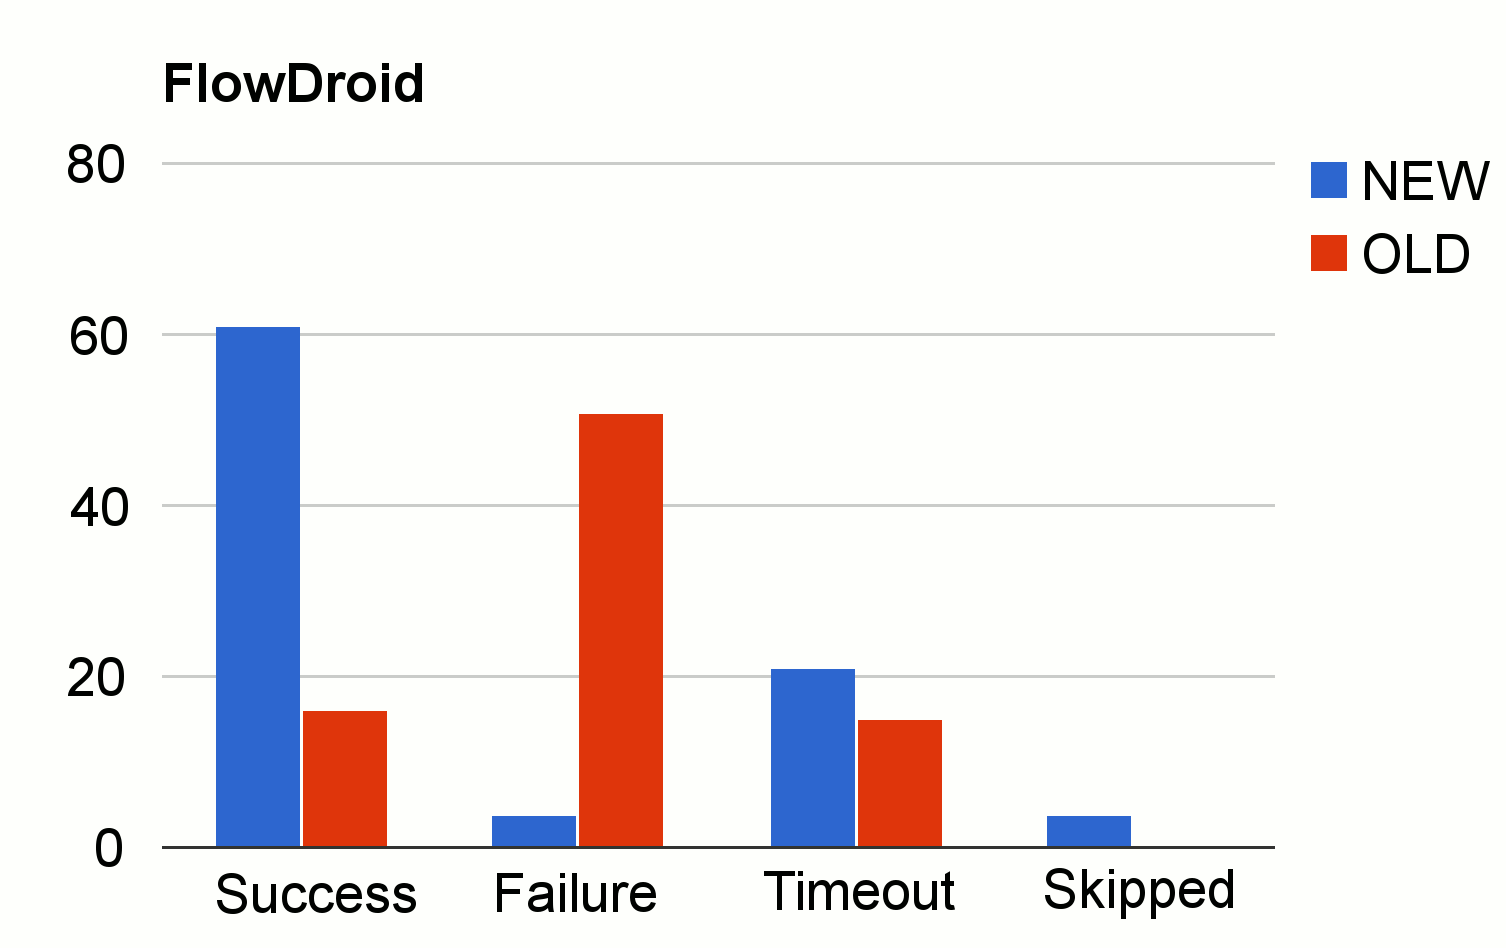
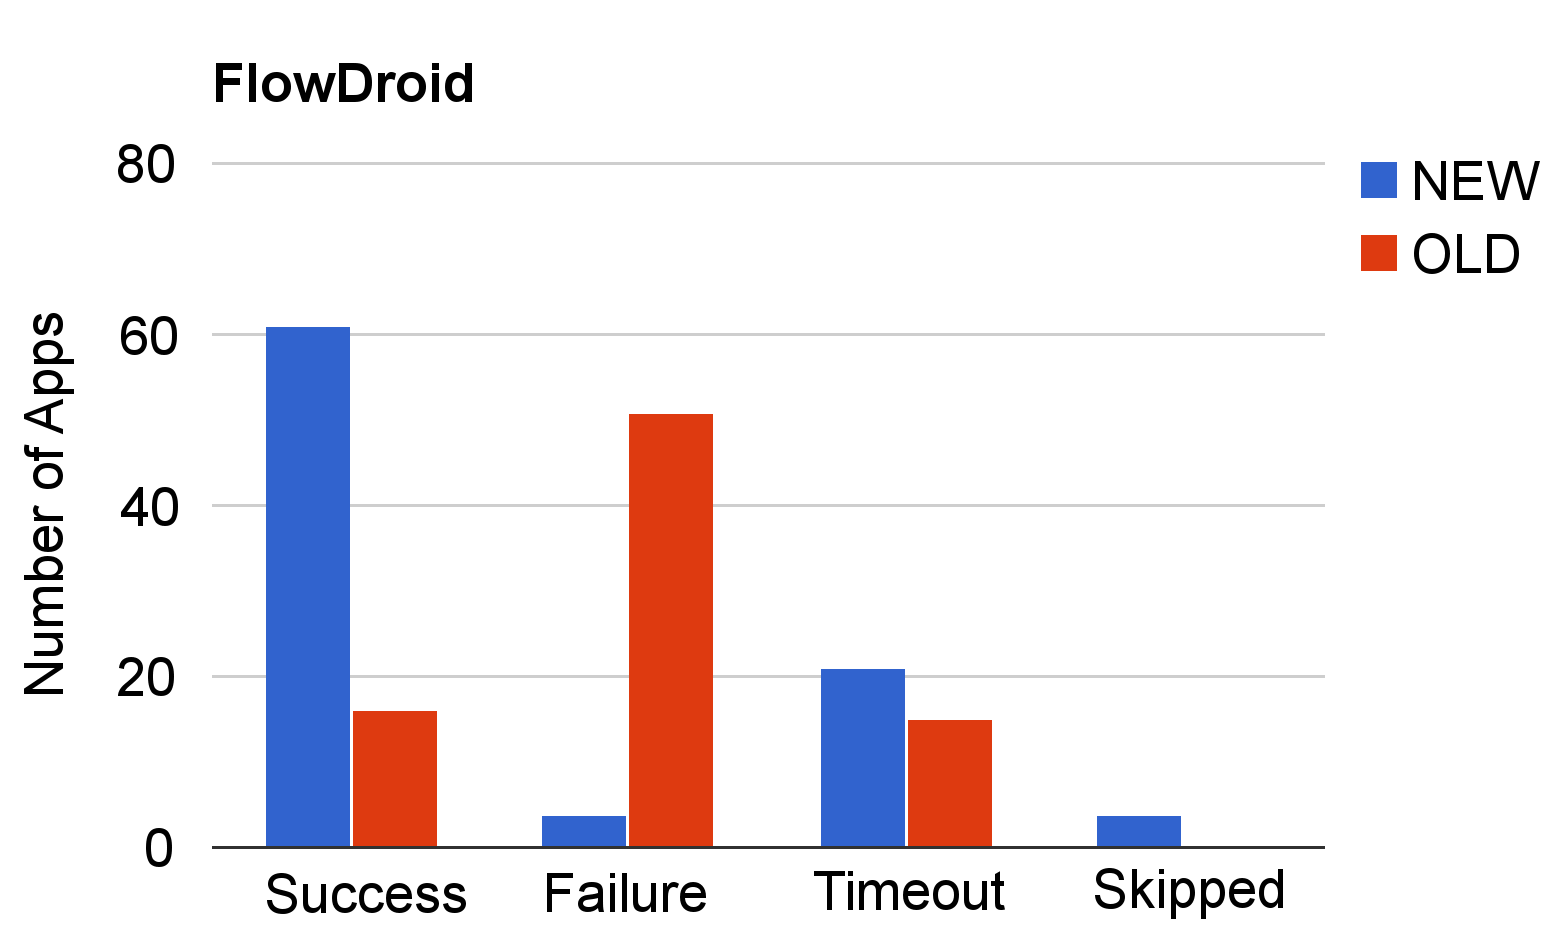
Added label for y-axis in Figure 6.1.

diff --git a/content/main.tex b/content/main.tex
@@ -28,7 +28,7 @@ Consider the case where the user installs an application for recording audio not
 
 As this example demonstrates, the Android permission system alone is insufficient for reasoning about scenarios where information flow between applications circumvents intended permission limitiations. \emph{DidFail}~\cite{didfail} is a tool for detecting such flows. Given a set up of Android APKs, DidFail uses static analysis to detect cases where sensitive information may be leaked from one application to another. While DidFail is a useful tool, it currently falls short in several scenarios. In its previous release, DidFail only tracked flows between Activities via intents. Other types of dataflows, such as those through static fields or between an Activity and a BroadcastReceiver, were previously missed. Through our work, we were able to expand DidFail's capabilities to work with more applications and handle more types of flows (with a few bumps along the way, and some still left for future work). In Sections III-VI, we detail the four features of DidFail we focused on improving.
 
-The DidFail analyzer (source code and binaries), previous DidFail versions, and papers about DidFail are available at: http://www.cert.org/secure-coding/tools/didfail.cfm  The version of DidFail and the test apps described in this report are also directly available at: \TODO{Get URL for direct access and put here, and also populate code, install instructions, and use instructions.}
+The DidFail analyzer (source code and binaries), previous DidFail versions, and papers about DidFail are available at: \url{http://www.cert.org/secure-coding/tools/didfail.cfm}.  The version of DidFail and the test apps described in this report are also directly available at: \TODO{Get URL for direct access and put here, and also populate code, install instructions, and use instructions.}
 
 \chapter{DidFail}
 
@@ -280,7 +280,7 @@ These additional flows from the Cartesian product calculation are added to the s
 
 Our analysis appeared to work correctly. While our modifications to support flows through static fields worked quite well in most cases, there are still some issues with our solution. With two taint passes instead of one, our required runtime can be as much as double the runtime of the original analysis. 
 
-More critically, the runtime of FlowDroid also scales with the number of sources, which means that adding a new source for every static field read could also ruin performance depending on how frequently static fields are used. In order to evaluate how important this issue is, we tested 100 APKs that, prior to adding this new feature, were successfully analyzed within the allocated time and memory (using virtual machines with 61 GB and FlowDroid analysis memory allowed to take up to 32 GB) (see Section~\ref{sec:infrastructure}). Unfortunately, the majority (66 out of 100) now timed out or ran out of heap space. It turns out that most applications use static fields quite frequently, particularly when invoking libraries such as Google Ads. For many of these applications, an additional taint analysis for every static field read was prohibitively expensive. In the future, we will increase virtual machine memory size, to see if that enables successful static field taint analysis of more apps. Virtual machines with 244~GB of memory are available\footnote{http://aws.amazon.com/ec2/pricing/}, which also have 32 virtual cores. Future work will also develop strategies to reduce the number of reads which get traced through the program. 
+More critically, the runtime of FlowDroid also scales with the number of sources, which means that adding a new source for every static field read could also ruin performance depending on how frequently static fields are used. In order to evaluate how important this issue is, we tested 100 APKs that, prior to adding this new feature, were successfully analyzed within the allocated time and memory (using virtual machines with 61 GB and FlowDroid analysis memory allowed to take up to 32 GB) (see Section~\ref{sec:infrastructure}). Unfortunately, the majority (66 out of 100) now timed out or ran out of heap space. It turns out that most applications use static fields quite frequently, particularly when invoking libraries such as Google Ads. For many of these applications, an additional taint analysis for every static field read was prohibitively expensive. In the future, we will increase virtual machine memory size, to see if that enables successful static field taint analysis of more apps. Virtual machines with 244~GB of memory are available\footnote{\url{http://aws.amazon.com/ec2/pricing/}}, which also have 32 virtual cores. Future work will also develop strategies to reduce the number of reads which get traced through the program. 
 
 As noted earlier, detecting which fields are static is undecidable and our taint-based solution is therefore an overapproximation. Thus, some reported flows to static fields may not be realizable in practice. The solution is not a \emph{strict} overapproximation, however, since there are some cases where FlowDroid itself does not recognize that a flow exists at all. We cannot detect flows that use static fields for legitmate flows missed by FlowDroid. 
 
@@ -337,6 +337,7 @@ Next, we tuned the pathfinding precision by setting the \texttt{aplength} parame
 
 The final, rather drastic option is the \texttt{nopaths} parameter, which causes FlowDroid to invest no effort in constructing accurate paths.  
 %{Rather, it will simply report source/sink pairs.  Obviously, this is bound to produce many false positives.} <== This is not true.  The nopaths options doesn't decrease either precision or soundnress, it just provides less information.
+\TODO{Confirm what the \ttt{nopaths} option actually does.}
 This option was required for the remaining six APKs to make it through FlowDroid without timing out.
 
 \section{Conclusions and Future Work on Infrastructure Improvements}
